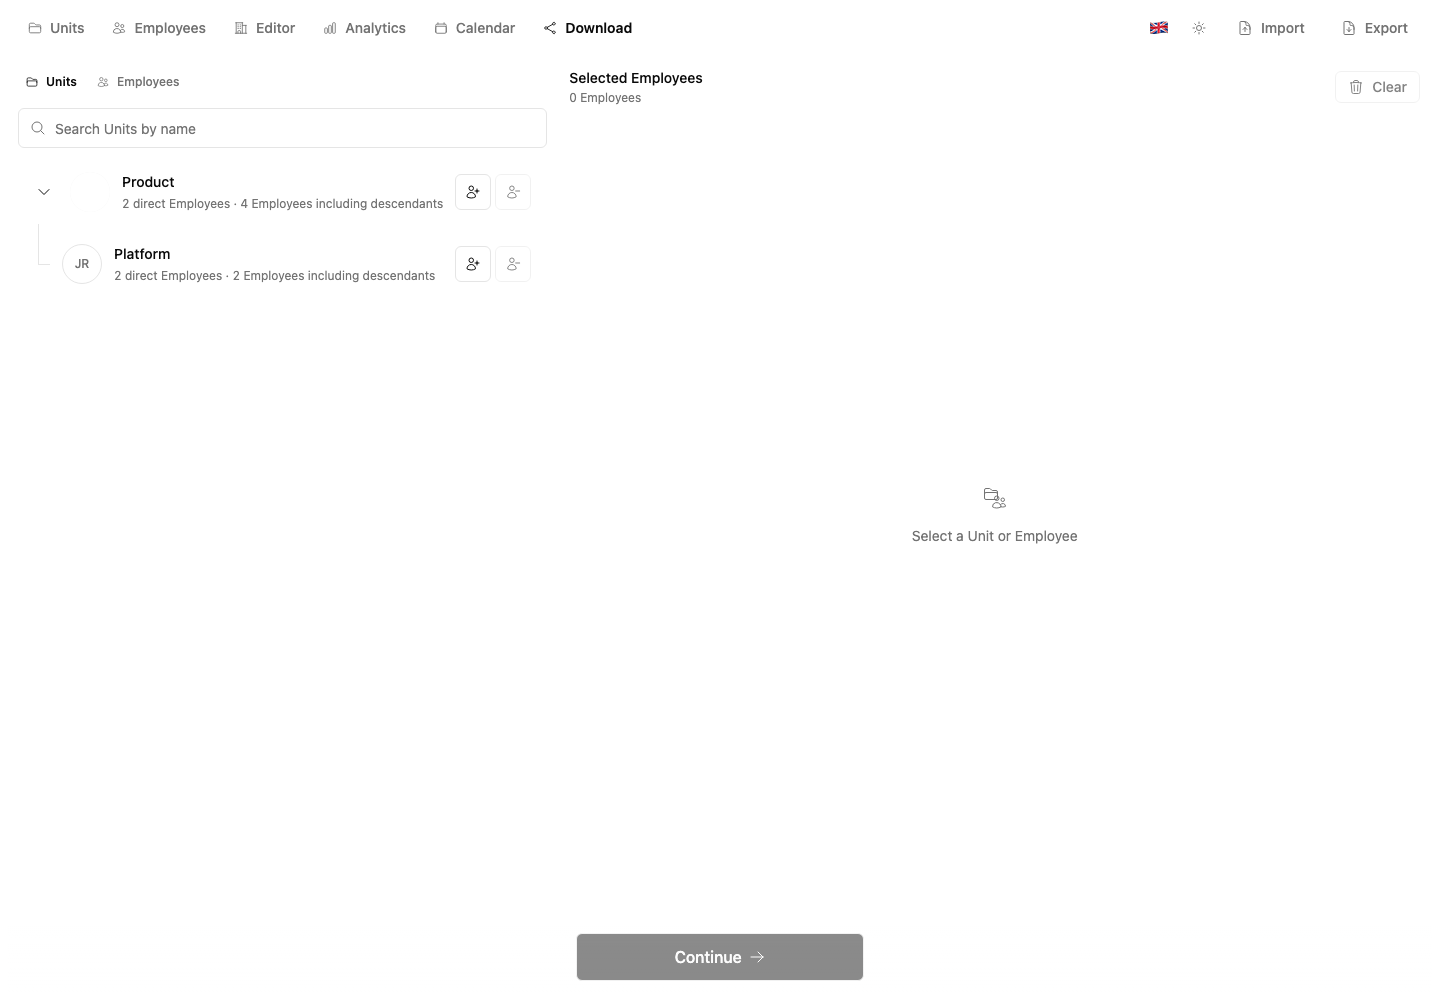
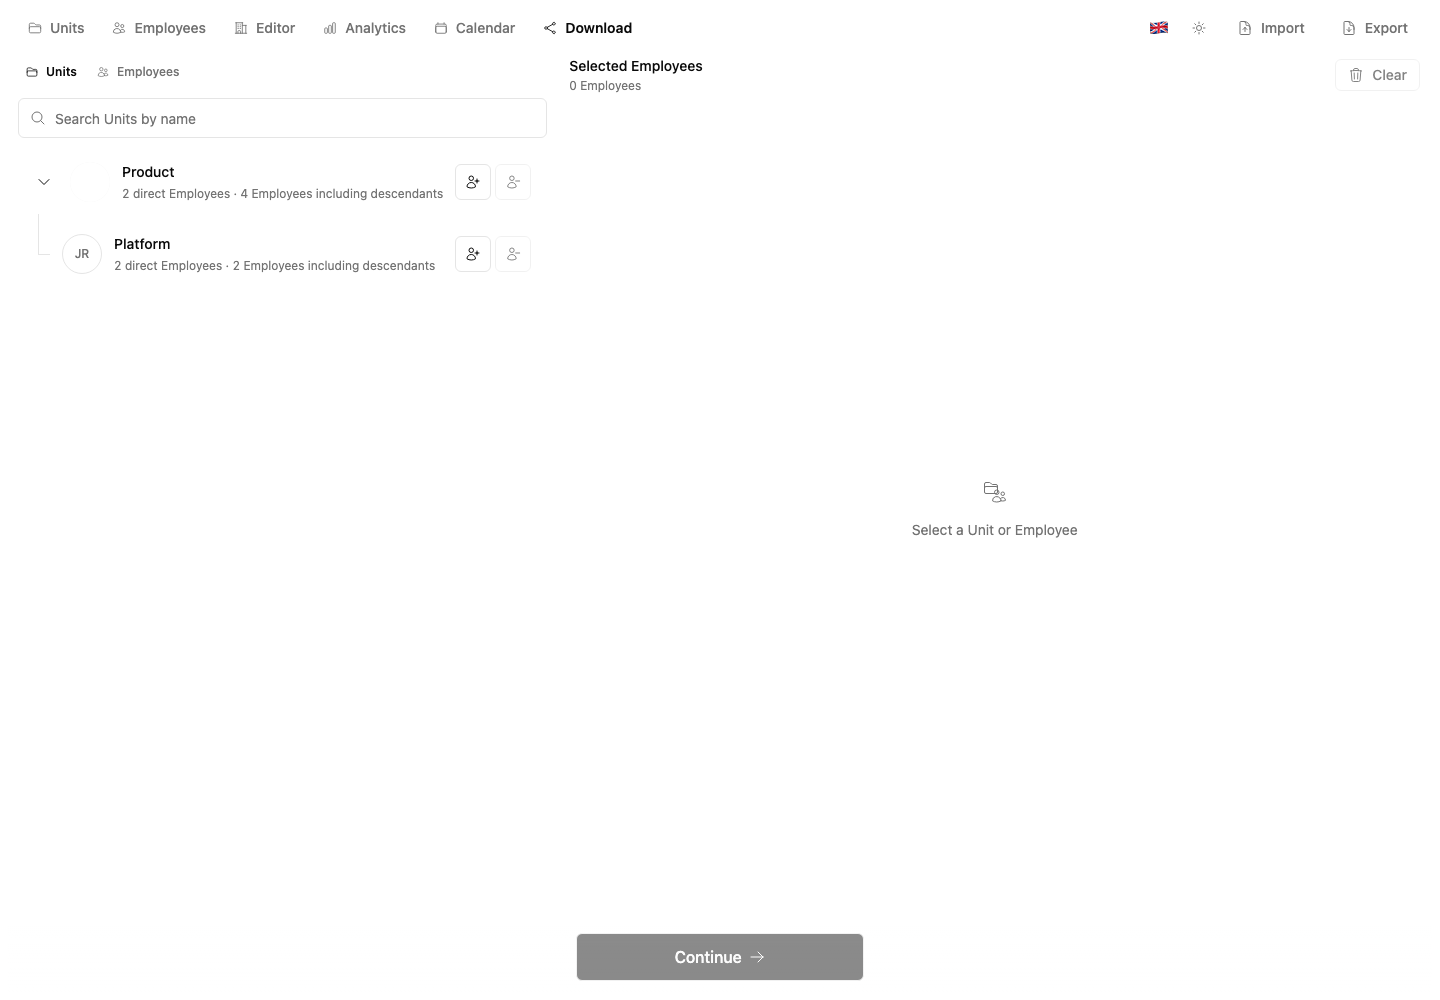
fix: align product tabs with header

diff --git a/packages/screenshots/tests/smoke.spec.ts b/packages/screenshots/tests/smoke.spec.ts
@@ -336,20 +336,39 @@ test("uses one continuous root surface with a distinct Editor canvas", async ({ 
   expect(editorCanvasBox).not.toBeNull();
 
   const surfaces = [
-    ["tab-units", '[data-demo-id="units-surface"]'],
-    ["tab-employees", '[data-demo-id="employees-surface"]'],
-    ["tab-analytics", '[data-demo-id="analytics-surface"]'],
-    ["tab-calendar", '[data-demo-id="calendar-tab"]'],
-    ["tab-export", '[data-demo-id="export-surface"]'],
+    [
+      "tab-units",
+      '[data-demo-id="units-surface"]',
+      ['[data-demo-id="unit-create-root-button"]', '[data-demo-id="units-employee-header"]'],
+    ],
+    ["tab-employees", '[data-demo-id="employees-surface"]', ['[data-demo-id="employees-search"]']],
+    ["tab-analytics", '[data-demo-id="analytics-surface"]', ['[data-demo-id="analytics-header"]']],
+    ["tab-calendar", '[data-demo-id="calendar-tab"]', ['[data-demo-id="calendar-header"]']],
+    [
+      "tab-export",
+      '[data-demo-id="export-surface"]',
+      [
+        '[data-demo-id="export-source-tabs"]',
+        '[data-demo-id="export-selected-panel"] > div:first-child',
+      ],
+    ],
   ] as const;
 
-  for (const [tabDemoId, selector] of surfaces) {
+  for (const [tabDemoId, selector, leadingSelectors] of surfaces) {
     await page.locator(`[data-demo-id="${tabDemoId}"]`).click();
     const surface = page.locator(selector);
     await expectTransparentBackground(surface);
     const surfaceBox = await surface.boundingBox();
     expect(surfaceBox).not.toBeNull();
     expect(Math.abs((surfaceBox?.y ?? 0) - (editorCanvasBox?.y ?? 0))).toBeLessThanOrEqual(1);
+    for (const leadingSelector of leadingSelectors) {
+      const leadingBox = await page.locator(leadingSelector).boundingBox();
+      expect(leadingBox).not.toBeNull();
+      expect(
+        Math.abs((leadingBox?.y ?? 0) - (editorCanvasBox?.y ?? 0)),
+        `${leadingSelector} starts at the shared workflow origin`,
+      ).toBeLessThanOrEqual(1);
+    }
   }
 
   await page.locator('[data-demo-id="tab-org-editor"]').click();

diff --git a/apps/ui/src/components/export-tab.tsx b/apps/ui/src/components/export-tab.tsx
@@ -491,7 +491,7 @@ export const ExportTab = observer(() => {
             data-demo-id="export-source-panel"
           >
             {store.orgViewList.length > 1 && (
-              <div className="p-2.5">
+              <div className="px-2.5 pb-2.5 pt-0">
                 <Select
                   onValueChange={(viewId) => {
                     store.selectExportOrgView(viewId);
@@ -520,7 +520,7 @@ export const ExportTab = observer(() => {
               value={sourceSection}
             >
               <TabsList
-                className="mx-2.5 mt-2.5 h-auto w-fit shrink-0"
+                className="mx-2.5 mt-0 h-auto w-fit shrink-0"
                 data-demo-id="export-source-tabs"
               >
                 <TabsTrigger
@@ -698,6 +698,7 @@ export const ExportTab = observer(() => {
             emptyState={<ExportSelectedEmployeesEmptyState />}
             filters={selectedFilters}
             hasSearch={hasSelectedEmployeeSearch}
+            headerClassName="px-3 pb-3 pt-0"
             onClear={() => {
               store.clearExportSelection();
               setStatus(null);

diff --git a/apps/ui/src/components/units-tab.tsx b/apps/ui/src/components/units-tab.tsx
@@ -360,7 +360,7 @@ export const UnitsTab = observer(() => {
           data-demo-id="units-tree-panel"
         >
           <div
-            className="flex min-h-16 shrink-0 items-center gap-2 px-2 py-2"
+            className="flex shrink-0 items-start gap-2 px-2 pb-2 pt-0"
             data-demo-id="units-tree-header"
           >
             {showUnitSearch && (
@@ -500,7 +500,7 @@ export const UnitsTab = observer(() => {
           className="flex min-h-0 min-w-0 flex-col overflow-hidden bg-transparent"
           data-demo-id="units-employee-panel"
         >
-          <div className="grid shrink-0 gap-2 p-2" data-demo-id="units-employee-header">
+          <div className="grid shrink-0 gap-2 px-2 pb-2 pt-0" data-demo-id="units-employee-header">
             <div className="min-w-0">
               <div className="truncate text-sm font-medium">{selectedUnit.name}</div>
               <nav

diff --git a/apps/ui/src/components/employees-tab.tsx b/apps/ui/src/components/employees-tab.tsx
@@ -93,7 +93,7 @@ export const EmployeesTab = observer(() => {
           data-demo-id="employees-surface"
         >
           <div
-            className="flex min-h-16 shrink-0 flex-wrap items-start gap-3 px-3 py-3"
+            className="flex min-h-16 shrink-0 flex-wrap items-start gap-3 px-3 pb-3 pt-0"
             data-demo-id="employees-header"
           >
             <div className="grid min-w-56 flex-1 gap-1" data-demo-id="employees-search-column">

diff --git a/apps/ui/src/components/analytics-tab.tsx b/apps/ui/src/components/analytics-tab.tsx
@@ -385,7 +385,7 @@ export const AnalyticsTab = observer(() => {
           data-demo-id="analytics-surface"
         >
           <div
-            className="flex shrink-0 flex-wrap items-center justify-between gap-3 bg-transparent px-3 py-3"
+            className="flex shrink-0 flex-wrap items-center justify-between gap-3 bg-transparent px-3 pb-3 pt-0"
             data-demo-id="analytics-header"
           >
             <div className="min-w-0">

diff --git a/apps/ui/src/components/calendar-tab.tsx b/apps/ui/src/components/calendar-tab.tsx
@@ -292,7 +292,7 @@ export const CalendarTab = observer(() => {
         data-demo-id="calendar-tab"
       >
         <div
-          className="flex shrink-0 flex-wrap items-center justify-between gap-3 bg-transparent px-4 py-3"
+          className="flex shrink-0 flex-wrap items-center justify-between gap-3 bg-transparent px-4 pb-3 pt-0"
           data-demo-id="calendar-header"
         >
           <div className="min-w-0">

diff --git a/openspec/changes/archive/2026-08-11-remove-product-tab-top-spacing/specs/interface-chrome/spec.md b/openspec/changes/archive/2026-08-11-remove-product-tab-top-spacing/specs/interface-chrome/spec.md
@@ -1,9 +1,5 @@
-# interface-chrome Specification
+## MODIFIED Requirements
 
-## Purpose
-Define how the application separates shell, surface, dialog, and repeated-row content without
-unnecessary decorative rules.
-## Requirements
 ### Requirement: Application chrome is separated without decorative rules
 The application SHALL use one borderless 56 px header and one continuous root surface: white in the
 light theme and a shared dark neutral in the dark theme. Every product workflow SHALL begin flush
@@ -16,15 +12,14 @@ main shell, status bands, product surface headers, and local section headers. Th
 contain a horizontally containable product-tab region on the left and a fixed global-action region
 on the right. Product tabs SHALL render as a flat, spaced group without a shared boundary,
 persistent fill, or underline; the active tab SHALL use stronger foreground text and weight. Every
-nested tab group SHALL use the same flat treatment.
-Language, theme, Import, and Export controls SHALL render as a flat, spaced group without a shared
-enclosing surface. Populated Employees, Teams, Analytics, Calendar, and Download SHALL place their
-headers, controls, panes, lists, and sections directly on the continuous root surface without an
-outer rounded workflow container or nested decorative section fills. Teams and Download SHALL
-separate adjacent source and Employee panes through compact layout and grouping without a vertical
-rule. Meaningful fields, dialogs, popovers, selectable and destructive choices, calendar cells,
-focus and error states, hierarchy guides, and data objects whose boundary communicates identity
-SHALL retain their required bounded treatment.
+nested tab group SHALL use the same flat treatment. Language, theme, Import, and Export controls
+SHALL render as a flat, spaced group without a shared enclosing surface. Populated Employees, Teams,
+Analytics, Calendar, and Download SHALL place their headers, controls, panes, lists, and sections
+directly on the continuous root surface without an outer rounded workflow container or nested
+decorative section fills. Teams and Download SHALL separate adjacent source and Employee panes
+through compact layout and grouping without a vertical rule. Meaningful fields, dialogs, popovers,
+selectable and destructive choices, calendar cells, focus and error states, hierarchy guides, and
+data objects whose boundary communicates identity SHALL retain their required bounded treatment.
 
 #### Scenario: Continuous white light surface
 - **WHEN** any product workflow renders in the light theme
@@ -75,51 +70,3 @@ SHALL retain their required bounded treatment.
 #### Scenario: Stable product workflow origin
 - **WHEN** a user switches between Editor and any populated product workflow
 - **THEN** the Editor canvas, ordinary workflow surface, and its first visible root-level content group all begin immediately below the unified header without outer top margin, top padding, or a vertical content jump
-
-### Requirement: Dialog chrome is borderless inside its outer boundary
-Dialog and alert-dialog outer boundaries SHALL remain visually distinct from the page, while their
-headers and footers SHALL use padding and background without internal top or bottom rules. Accessible
-titles, descriptions, close actions, scrolling, and confirmation actions SHALL remain unchanged.
-
-#### Scenario: Long dialog
-- **WHEN** Import, Export, or Employee content scrolls inside a constrained dialog
-- **THEN** the outer dialog remains identifiable and the header and actions remain readable and reachable without header or footer divider lines
-
-#### Scenario: Destructive alert
-- **WHEN** a destructive confirmation dialog opens
-- **THEN** its outer boundary, destructive copy, and action remain explicit without internal dialog rules
-
-### Requirement: Repeated rows are separated without line rules
-Repeated interface rows SHALL use compact content layout and interaction feedback instead of
-decorative line rules, card fill, or inter-row gutters. Virtualized Employee lists SHALL render
-contiguous rows directly on the workflow background without individual list-row corner rounding.
-This applies alongside virtualized and non-virtualized filters, tag pickers, mappings, event lists,
-and import previews, except where a real selectable or data-card boundary is semantically required.
-
-#### Scenario: Interactive option list
-- **WHEN** a user navigates a filter or tag list with pointer or keyboard
-- **THEN** each option remains identifiable from layout and active feedback without a row divider or persistent row fill
-
-#### Scenario: Contiguous Employee list
-- **WHEN** multiple Employees render in a list surface
-- **THEN** adjacent rows share the root surface without an inter-row gap, individual background tile, corner rounding, or row divider
-
-#### Scenario: Mapping and preview rows
-- **WHEN** a generic mapping or structured preview contains multiple rows
-- **THEN** aligned fields, hierarchy, semantic cards, and spacing remain readable without decorative repeated row rules or section islands
-
-### Requirement: Meaningful component boundaries remain
-The application SHALL retain outlines or owned surfaces only when they communicate interactive
-controls, selectable cards, dialogs, popovers, calendar cells, hierarchy guides, canvas data nodes,
-focus, errors, or destructive states. Adjacent Teams and Download panes, workflow wrappers,
-navigation groups, toolbar groups, ordinary repeated rows, and Analytics groups SHALL not use an
-outline or fill solely as layout decoration.
-
-#### Scenario: Semantic boundary audit
-- **WHEN** the flat chrome is rendered in light or dark theme
-- **THEN** fields, choice cards, dialogs, popovers, calendar cells, hierarchy guides, Editor data nodes, focus rings, and destructive selections remain visually bounded
-- **AND** navigation, actions, workflow wrappers, Analytics sections, and ordinary rows remain unenclosed
-
-#### Scenario: Narrow layout
-- **WHEN** the Import dialog renders at a 390 px viewport
-- **THEN** operation cards retain their selectable boundaries, content remains inside the dialog, and no page-level horizontal overflow appears

diff --git a/openspec/changes/archive/2026-08-11-remove-product-tab-top-spacing/design.md b/openspec/changes/archive/2026-08-11-remove-product-tab-top-spacing/design.md
@@ -1,0 +1,39 @@
+## Context
+
+Product panels now share the header boundary, but their first child groups use independent top
+padding: 8 px in Teams, 12 px in Employees, Analytics, and Calendar, and 10–12 px in Download.
+The Editor canvas paint begins at zero, so the first visible ordinary-workflow content shifts when
+the active product tab changes.
+
+## Goals / Non-Goals
+
+**Goals:**
+
+- Place the first visible populated content group at the top edge of every product tab.
+- Keep side and bottom spacing so controls remain readable on the continuous root surface.
+- Verify the leading element geometry against the header boundary, not only the transparent wrapper.
+
+**Non-Goals:**
+
+- Removing spacing between later sections or inside controls.
+- Moving Editor overlay controls or changing its canvas background.
+- Changing centered empty states, responsive layout, or any product behavior.
+
+## Decisions
+
+Each top-level workflow will remove only the top component of its first group's padding or margin.
+Teams will also remove the artificial minimum header height that would otherwise center the first
+button below the top edge. Download will remove top margin from its first source tabs and top padding
+from its selected-Employee header. Shared nested components keep their defaults; the Download caller
+uses an explicit header override because this alignment is a root-surface concern.
+
+Removing all padding from product workflows was rejected because horizontal containment and spacing
+between subsequent sections remain useful. Changing the generic Tabs component was also rejected
+because nested dialog and source tabs have independent layout needs.
+
+## Risks / Trade-offs
+
+- [Controls can appear too close to the unified header] -> Retain horizontal and bottom spacing and
+  verify light/dark screenshots at maintained viewports.
+- [A nested Download header can retain its default inset] -> Assert the bounding top of both source
+  and selected-Employee leading controls in browser tests.

diff --git a/docs/screenshots.md b/docs/screenshots.md
@@ -80,11 +80,11 @@ shows search, its total catalog count, actions, and contiguous rows directly on 
 Successful workspace and Download-tab saves also remain visually silent; browser tests assert the
 downloaded files while copy confirmation and errors retain their interface feedback.
 The gallery verifies an uninterrupted white light surface and dark neutral surface across the header
-and ordinary workflows; a shared flush workflow origin immediately below the header; flat spaced
-product tabs, nested tabs, and global actions; compact split
-panes without vertical rules; flat Org Editor top-left and bottom-left control groups over a neutral
-canvas; card-consistent neutral tags in local image export; right-revealing Editor search; unfilled
-borderless Analytics groups with 12 px gaps; and
+and ordinary workflows; a shared flush workflow origin and first visible content group immediately
+below the header without top inset; flat spaced product tabs, nested tabs, and global actions;
+compact split panes without vertical rules; flat Org Editor top-left and bottom-left control groups
+over a neutral canvas; card-consistent neutral tags in local image export; right-revealing Editor
+search; unfilled borderless Analytics groups with 12 px gaps; and
 preserved semantic boundaries for fields, dialogs, popovers, selection cards, calendar cells,
 hierarchy guides, Editor nodes, focus, and destructive states.
 

diff --git a/openspec/changes/archive/2026-08-11-remove-product-tab-top-spacing/proposal.md b/openspec/changes/archive/2026-08-11-remove-product-tab-top-spacing/proposal.md
@@ -1,0 +1,33 @@
+## Why
+
+Although the product panels themselves already begin below the unified header, their first controls
+still add different top padding. Switching from the flush Editor canvas to Teams, Employees,
+Analytics, Calendar, or Download therefore makes the visible content jump downward by varying
+amounts.
+
+## What Changes
+
+- Remove root-level top padding from the first populated content group in every non-Editor product
+  tab.
+- Align the leading Teams controls, Employee search, Analytics header, Calendar header, and Download
+  source/selection controls directly with the bottom edge of the application header.
+- Retain horizontal and bottom spacing, internal spacing below the leading group, responsive
+  behavior, and the Editor canvas treatment.
+- Preserve empty-state centering, all workflows, state, imports, exports, and public contracts.
+
+## Capabilities
+
+### New Capabilities
+
+None.
+
+### Modified Capabilities
+
+- `interface-chrome`: require the first visible root-level content group in every populated product
+  tab to start without top margin or padding.
+
+## Impact
+
+The change affects top-level spacing classes in Teams, Employees, Analytics, Calendar, and Download,
+plus browser geometry assertions, screenshots, and interface documentation. It adds no dependency,
+network behavior, persistence, or compatibility change.

diff --git a/openspec/changes/archive/2026-08-11-remove-product-tab-top-spacing/tasks.md b/openspec/changes/archive/2026-08-11-remove-product-tab-top-spacing/tasks.md
@@ -1,0 +1,12 @@
+## 1. Root content alignment
+
+- [x] 1.1 Remove leading top padding from Teams, Employees, Analytics, and Calendar content groups.
+- [x] 1.2 Remove leading top margin and padding from both Download panes.
+- [x] 1.3 Preserve side/bottom spacing, empty states, and internal section rhythm.
+
+## 2. Verification and delivery
+
+- [x] 2.1 Assert every populated tab's first visible content group starts at the header boundary.
+- [x] 2.2 Update usage and screenshot documentation and regenerate the affected gallery.
+- [x] 2.3 Run format, lint, typecheck, unit tests, build, browser smoke, screenshots, strict OpenSpec validation, and public safety.
+- [x] 2.4 Synchronize capability specs, archive the completed change, and create a meaningful commit.

diff --git a/docs/usage.md b/docs/usage.md
@@ -51,6 +51,9 @@ persisted types, and export fields remain unchanged.
 - **Download** selects local sources and produces CSV, JSON, or separator-based templates on the
   shared root surface.
 
+Populated product tabs begin directly below the unified header. Their first root-level controls add
+no top inset, while horizontal, bottom, and subsequent section spacing keep each workflow readable.
+
 The Main View is canonical. A custom View can begin as a copy of Main or empty, then keep its own
 document, local Employees, global Employee overrides, canvas layout, viewport, and command history.
 
